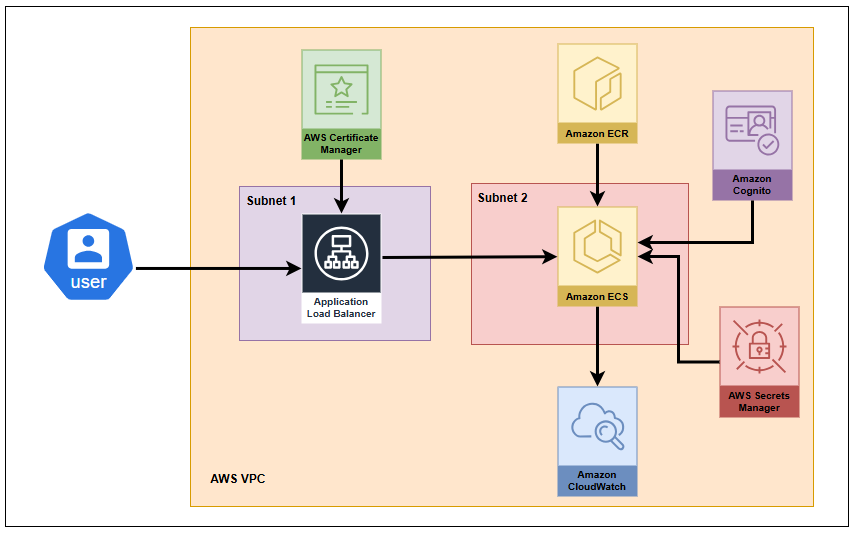
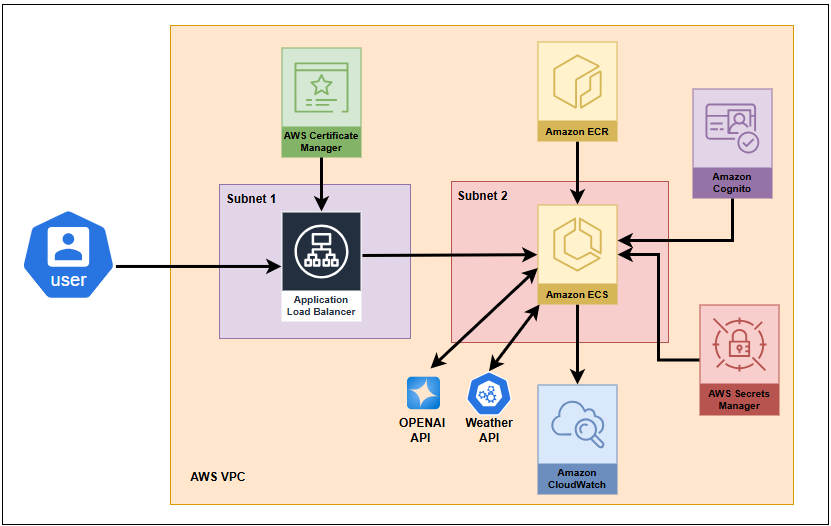
Updated Readme

Changed region(s): [[0.0, 0.0, 1.0, 1.0]]

diff --git a/Readme.md b/Readme.md
@@ -6,7 +6,7 @@
 This project is an AI-powered chatbot built using **Gradio** and **OpenAI's GPT API**, deployed on **AWS** with **CloudFormation** and automated using **GitHub Actions**. The chatbot integrates LLM functions, external APIs, and secure authentication using **AWS Cognito**.
 
 ## Features
-- 🤖 **LLM Agent Integration**: Executes dynamic function calls using OpenAI's API
+- 🤖 **LLM API Integration**: Executes dynamic function calls using OpenAI's API
 - 🔐 **Secure Authentication**: AWS Cognito ensures user identity verification
 - 🏗 **Infrastructure as Code (IaC)**: Managed using AWS CloudFormation
 - 🚀 **Automated Deployment**: CI/CD via GitHub Actions
@@ -24,7 +24,7 @@ This project is an AI-powered chatbot built using **Gradio** and **OpenAI's GPT 
 5. **Deployment**: CloudFormation provisions infrastructure, automated by GitHub Actions
 
 ## Deployment Process
-![Deployment Process](https://your-git-deploy-image-url-here.gif)
+![Deployment Process](/images/trigger_deploy.png)
 
 ## Prerequisites
 - **AWS Account** with required permissions
@@ -35,18 +35,38 @@ This project is an AI-powered chatbot built using **Gradio** and **OpenAI's GPT 
 - **Python 3.x** with dependencies (`gradio`, `boto3`, `requests`, etc.)
 
 ## Deployment Steps
+
 ### 1⃣ Set Up ACM Certificate
 - Register a free domain from `freedomain.one`
 - Issue an SSL certificate using AWS Certificate Manager
+- Validate domain ownership through DNS records
 
 ### 2⃣ Deploy Infrastructure
 - Push CloudFormation templates to AWS
 - Use GitHub Actions to automate deployment
+- Monitor stack creation in AWS Console
 
-### 3⃣ Run the Application
-![Application Demo](https://your-app-gif-url-here.gif)
-- Authenticate via Cognito
-- Interact with the chatbot using Gradio UI
+### 3⃣ Configure GitHub Repository
+Set up repository secrets and variables for secure deployment:
+
+![GitHub Secrets Configuration](/images/git_secret.png)
+*Repository secrets for AWS credentials and API keys*
+
+![GitHub Variables Configuration](/images/git_vars.png)
+*Environment variables for deployment configuration*
+
+### 4⃣ Run the Application
+After successful deployment, access your chatbot through the provided URL:
+
+![Chatbot Application Interface](/images/app.png)
+*Main chatbot interface with conversation history*
+
+![Cognito Login Window](/images/login.png)
+*Secure authentication via AWS Cognito*
+
+- Authenticate using your Cognito credentials
+- Interact with the chatbot through the intuitive Gradio UI
+- Test various LLM functions and API integrations
 
 ## Installation & Local Setup
 ```sh
@@ -57,31 +77,7 @@ python app.py
 ```
 
 ## GitHub Actions Workflow
-```yaml
-name: Deploy LLM Chatbot
-
-on:
-  push:
-    branches:
-      - main
-
-jobs:
-  deploy:
-    runs-on: ubuntu-latest
-    steps:
-      - name: Checkout repository
-        uses: actions/checkout@v3
-      
-      - name: Configure AWS credentials
-        uses: aws-actions/configure-aws-credentials@v2
-        with:
-          aws-access-key-id: ${{ secrets.AWS_ACCESS_KEY_ID }}
-          aws-secret-access-key: ${{ secrets.AWS_SECRET_ACCESS_KEY }}
-          aws-region: us-east-1
-      
-      - name: Deploy CloudFormation Stack
-        run: aws cloudformation deploy --template-file cloudformation.yml --stack-name LLMChatbot --capabilities CAPABILITY_IAM
-```
+![Workflow](/images/deploy.png)
 
 ## Security Considerations
 - 🔒 **Authentication**: AWS Cognito for user management
